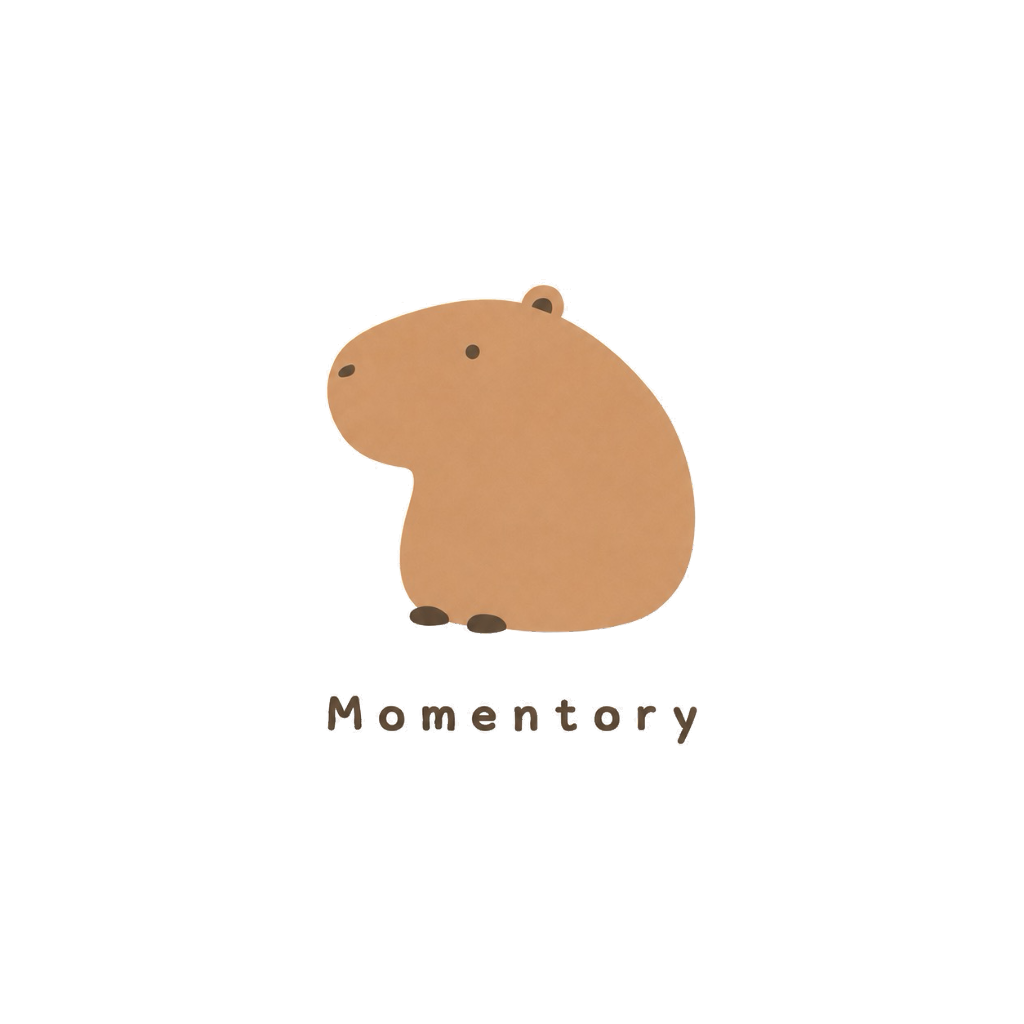
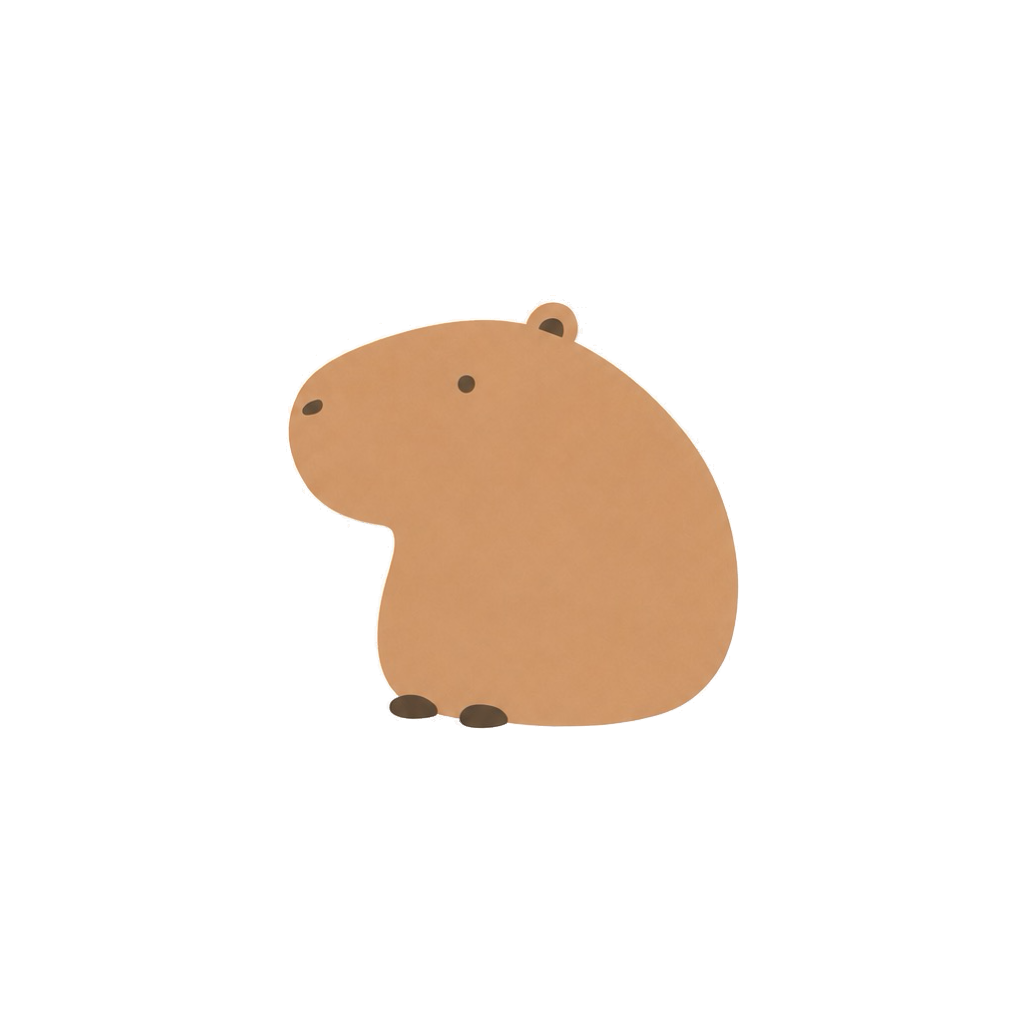
chore: 런처 아이콘을 워드마크 뺀 카피바라만으로 바꾼다
`a57b12d` 는 받은 로고를 구도까지 그대로 아이콘에 넣었다 — 카피바라 아래
「Momentory」 워드마크가 붙어 있는 그림이다. 홈 화면에서 아이콘은 손톱만 하고
그 옆에 앱 이름이 이미 적혀 있다. 워드마크는 읽히지도 않으면서 자리만 차지해
카피바라를 작게 만든다. 그래서 마크만 남기고 크게 세운다.

워드마크가 붙은 온전한 로고는 **스플래시가 맡는다** — 거기서는 크게 보이고
앱 이름이 따로 적혀 있지도 않다. 그래서 `splash-icon.png` 는 그대로 둔다.

- `icon.png` — 카피바라만 · 가로 67% · 알파 없음(iOS 요구사항)
- `android-icon-foreground.png` — 같은 마크 · 가로 44%
- `android-icon-monochrome.png` — 같은 마크·배율

⚠ 안드로이드 전경만 배율이 작은 것은 실수가 아니다. 런처는 108dp 중 안쪽
72dp(66%) 만 보여 주고 거기에 원·스퀘어클 마스크를 씌운다. 그 「보이는 틀」
안에서 iOS 와 같아 보이려면 마크가 틀의 67% 여야 하므로 캔버스 기준으로는
0.66 × 0.67 ≈ 44% 다. 캔버스에 67% 로 그리면 원이 카피바라를 잘라 먹는다 —
원형으로 깎아 확인했고 잘리는 픽셀은 0 이다.

⚠ 아이콘은 네이티브 빌드에 구워진다. `npx expo prebuild` + 재빌드가 필요하고,
이 커밋만으로는 실행 중인 앱이 바뀌지 않는다.

diff --git a/app.config.ts b/app.config.ts
@@ -72,10 +72,14 @@ export default ({ config }: ConfigContext): ExpoConfig => ({
     // 전경 PNG 는 그 면을 지운 **내용만**이라(투명 배경), 베이지를 그리는 것은
     // 배경층 하나뿐이다 — 여기를 바꾸면 카피바라가 다른 색 위에 뜬 것처럼 된다.
     //
-    // ⚠ 전경의 배율은 **보낸 원본 그대로**다(2026-08-23 · 가로 36.5% · 세로 45.6%).
-    // 여백이 넉넉한 구도라 런처에서 작아 보이지만 그것이 로고의 구도다. 다만
-    // 원본은 내용이 6% 아래로 치우쳐 있어 **세로만 가운데로 되돌렸다** — 적응형
-    // 아이콘은 안쪽 66% 만 보이고, 치우친 채로는 원형 마스크가 워드마크를 자른다.
+    // ⚠ 전경은 **워드마크를 뺀 카피바라만**이다(2026-08-24). 홈 화면의 아이콘은
+    // 손톱만 하고 그 옆에 앱 이름이 이미 적혀 있다 — 워드마크를 같이 넣으면
+    // 읽히지도 않으면서 카피바라만 작아진다. 온전한 로고는 스플래시가 맡는다.
+    //
+    // ⚠ 배율이 `icon.png`(67%)보다 작은 **44%** 인 것은 실수가 아니다. 런처는
+    // 108dp 중 안쪽 72dp(66%) 만 보여 주고 거기에 마스크를 씌우므로, 그 틀 안에서
+    // iOS 와 같아 보이려면 0.66 × 0.67 ≈ 44% 다. 67% 로 그리면 원이 카피바라를
+    // 자른다 — 바꿀 때는 원형으로 깎아 확인한다.
     adaptiveIcon: {
       backgroundColor: "#F2E4DC",
       foregroundImage: "./assets/android-icon-foreground.png",

diff --git a/docs/DESIGN.md b/docs/DESIGN.md
@@ -258,27 +258,34 @@ CTA 위계: 주 행동만 Solid Primary. 보조는 Outlined, 3순위는 Text But
 앱 안 진입 화면(`S0`·`S1`)의 「모멘토리」는 **손글씨 워드마크로 따로 가요**
 (`wordmarkHand` · PR #98). 그림 로고는 앱 **밖**에서 보이는 자리에만 써요.
 
-**구도는 원본 그대로예요** (2026-08-23 개정 · 그전에는 내용만 떼어 72%·60% 로
-키웠어요). 여백이 넉넉해 런처에서 작아 보이지만 그것이 로고의 구도예요.
+**런처 아이콘은 워드마크를 뺀 카피바라만이에요** (2026-08-24 개정). 홈 화면에서
+아이콘은 손톱만 하고 그 옆에 앱 이름이 이미 적혀 있어요 — 워드마크를 같이 넣으면
+읽히지도 않으면서 카피바라만 작아져요. 워드마크가 붙은 온전한 로고는 스플래시가
+맡아요.
 
 | 자산                           | 무엇                                                             |
 | ------------------------------ | ---------------------------------------------------------------- |
-| `icon.png`                     | **원본 그대로** 1024. 알파 없음(iOS 요구사항)                    |
-| `android-icon-foreground.png`  | 면을 지운 내용만 · 가로 36.5% · **세로만 가운데로** (아래 ⚠)     |
-| `android-icon-monochrome.png`  | 워드마크를 뺀 **카피바라만** — 런처 크기에서 글자는 얼룩이 돼요  |
+| `icon.png`                     | **카피바라만** · 가로 67% · 알파 없음(iOS 요구사항)              |
+| `android-icon-foreground.png`  | 같은 마크 · 가로 **44%** (= 66% × 67% · 아래 ⚠) · 투명 배경      |
+| `android-icon-monochrome.png`  | 같은 마크·배율. 안드로이드는 **알파만 봐요**(아래 ⚠)             |
 | `adaptiveIcon.backgroundColor` | `#F2E4DC` — 로고의 면. 베이지를 그리는 건 이 배경층 하나뿐이에요 |
-| `splash-icon.png`              | 정사각 1024 · 내용은 **안쪽 66%** (아래 ⚠) · 투명 배경           |
+| `splash-icon.png`              | 카피바라 **+ 워드마크** · 정사각 1024 · 내용은 안쪽 66% · 투명   |
 | `favicon.png`                  | 196 · **카피바라만** — 16~32px 에서 글자는 못 읽어요             |
+
+⚠ **안드로이드 전경만 배율이 다른 건 실수가 아니에요.** 런처는 108dp 중 **안쪽
+72dp(66%)** 만 보여 주고 거기에 원·스퀘어클 마스크를 씌워요. 그 「보이는 틀」
+안에서 iOS 와 같아 보이려면 마크가 틀의 67% 여야 하니 캔버스 기준으로는
+0.66 × 0.67 ≈ 44% 예요. 캔버스에 67% 로 그리면 원형 마스크가 카피바라를 잘라요 —
+바꿀 때 원형으로 깎아 확인해요(지금은 잘리는 픽셀 0).
 
 스플래시 배경은 첫 화면과 같은 크림 `#F7F4ED`(`background.normal`)이에요 —
 다른 색이면 `S0` 로 넘어가는 순간 바탕이 한 번 튀어요. 옛 값 `#F2E9DA`(2세대
 `palette.bgMid`)는 어느 화면의 색도 아니었어요.
 
-⚠ **원본은 내용이 6% 아래로 치우쳐 있어요.** 적응형 아이콘은 안쪽 66% 만 보여서,
-치우친 채로 두면 원형 마스크가 워드마크 양끝(`M`·`y`)을 잘라요. 그래서 세로만
-가운데로 되돌렸어요 — 배율은 건드리지 않았어요. 스플래시도 안드로이드 12+ 가
-아이콘을 원으로 깎으므로 같은 66% 안에 둬요(`imageWidth` 는 보이길 바라는 폭이
-아니라 그 1.5배예요).
+⚠ **스플래시도 안드로이드 12+ 가 원으로 깎아요.** 그래서 워드마크까지 안쪽 66%
+안에 둬요 — `imageWidth` 는 화면에 보이길 바라는 폭이 아니라 그 1.5배예요.
+원본은 내용이 6% 아래로 치우쳐 있어서, 앉힐 때 세로를 가운데로 되돌려요.
+안 그러면 마스크가 워드마크 양끝(`M`·`y`)을 잘라요.
 
 ⚠ **배경을 지울 때 안쪽까지 반투명해지지 않게 해요.** 거리 90 을 넘으면 알파 1 로
 못박고, 가장자리만 맞닿은 단색의 거리로 나눠요. 「이웃의 최대 거리」로만 알파를
